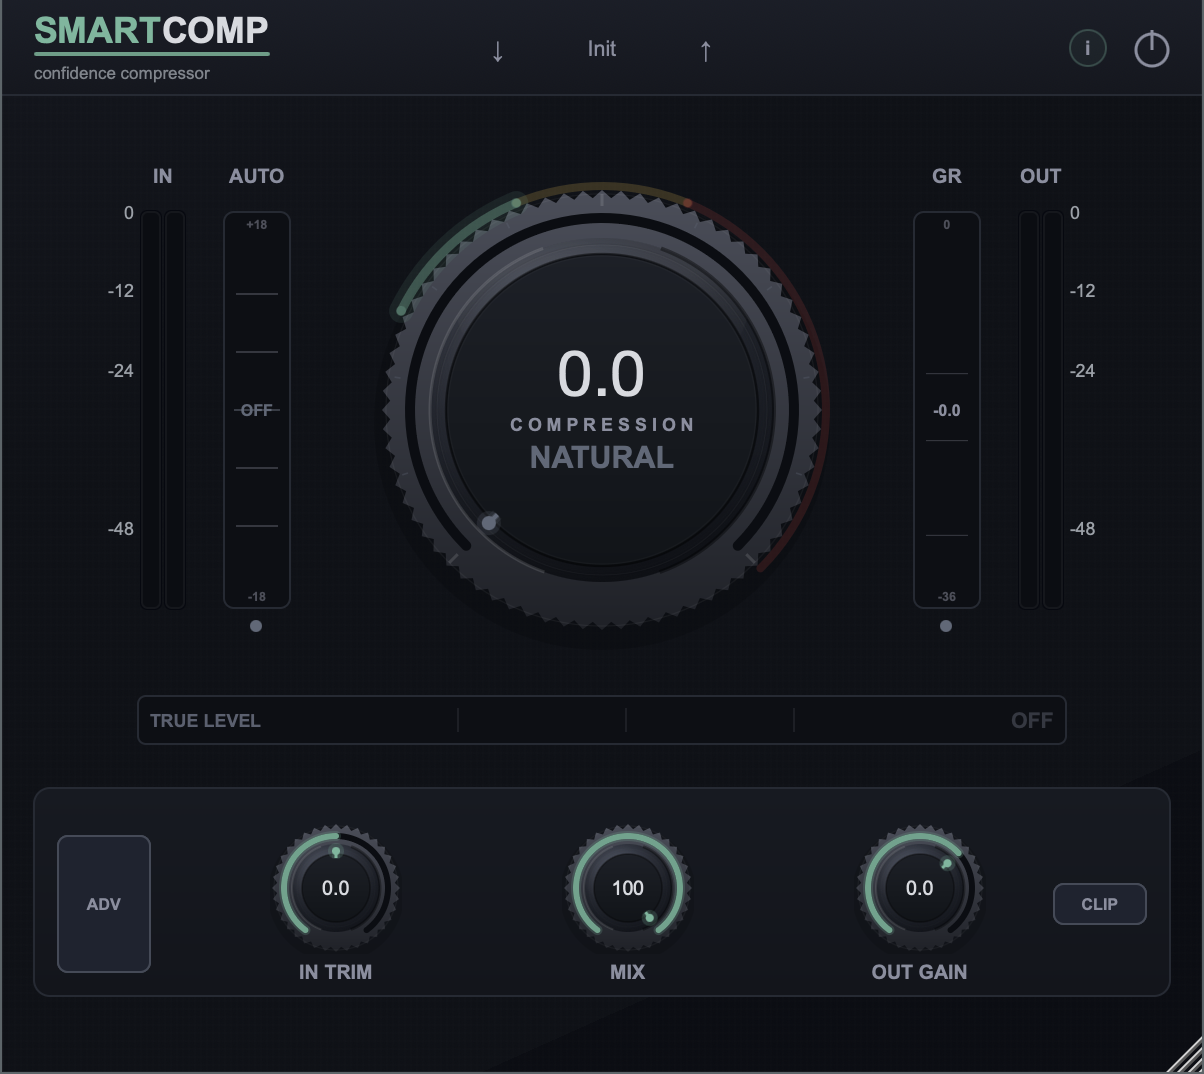
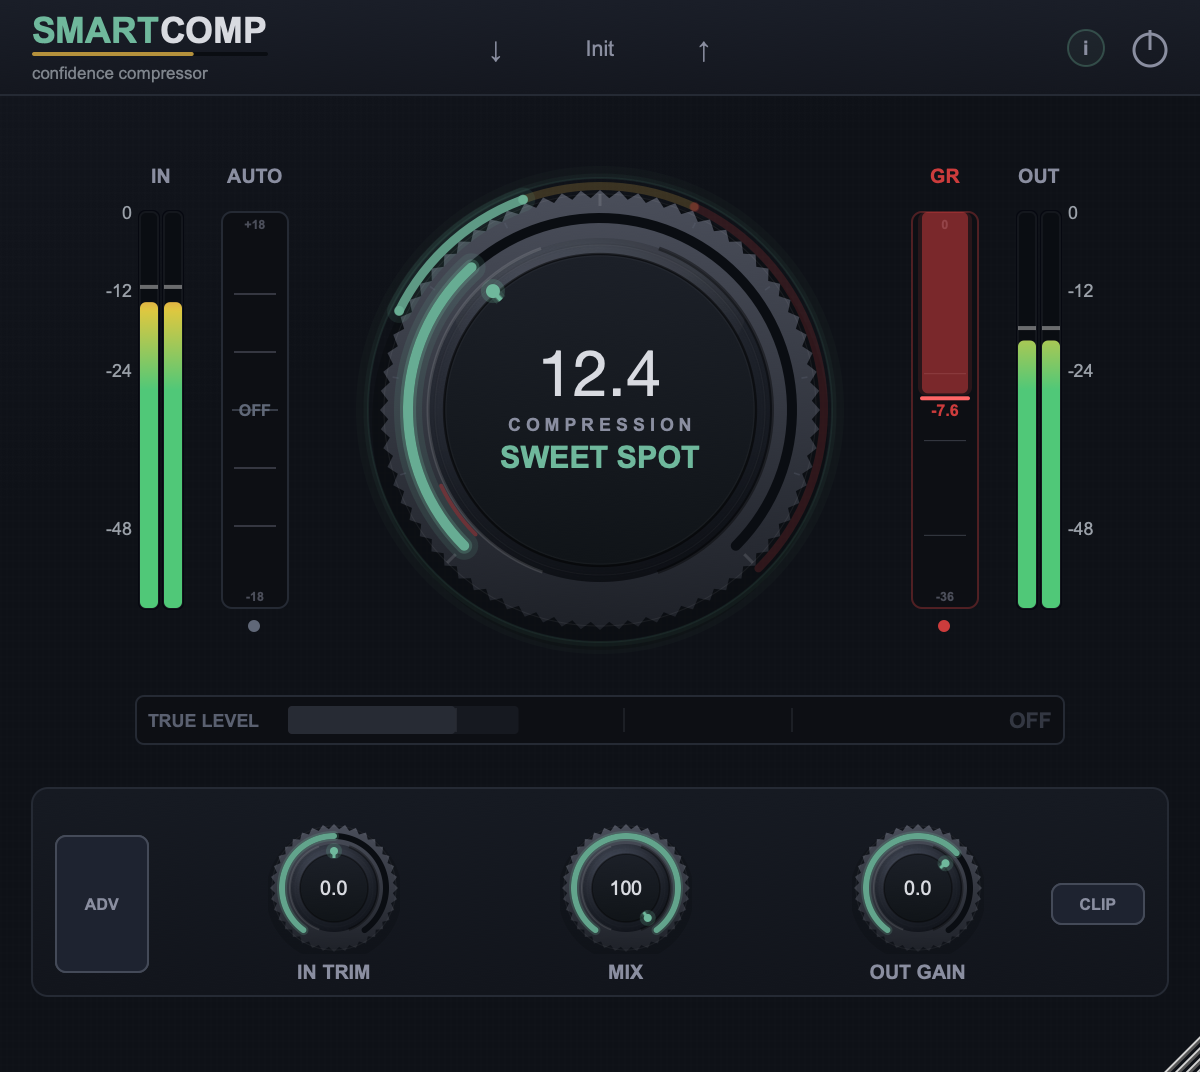
Add ui_shot: generate the README screenshot from the real UI
The previous screenshot showed the init state — everything at zero, empty
meters, no sign of the sweet-spot feature the README leads with. Getting a
screenshot with real activity needed real audio flowing through the actual
processor while the actual editor renders it; a physical mic capture isn't
controllable or repeatable, and mocking up the UI by hand would show a plugin
that doesn't quite exist.

tests/ui_shot.cpp instead runs SmartCompProcessor and SmartCompEditor through
a genuine JUCE event loop (JUCEApplication + Timer, not a stub), feeding a
deterministic vocal-like signal — a repeating word/pause cadence with an
emphasized syllable every third word — through processBlock. Once the
sweet-spot analysis has converged it snaps the knob into the middle of the
computed range and waits for the glow to fade in, then calls
createComponentSnapshot() on the real editor and writes a PNG. No screen
recording, no window manager, no AppleScript.

It links against the SmartComp shared-code CMake target rather than
recompiling PluginProcessor/PluginEditor, so it inherits the JucePlugin_*
compile definitions juce_add_plugin generates for that target instead of
needing to reproduce them by hand.

New screenshot shows Compression at 12.4, GR at -7.6 dB, and the knob's arc
lit up in the SWEET SPOT state — the thing the README's first paragraph
actually claims.

diff --git a/tests/ui_shot.cpp b/tests/ui_shot.cpp
@@ -1,0 +1,163 @@
+// Renders the real editor against synthetic audio and saves a PNG, so a
+// README screenshot can show the plugin actually working (meters moving, GR
+// arc lit, sweet-spot glow visible) without relying on a DAW, a physical mic,
+// or hand-drawn mockups. Runs the real SmartCompProcessor/SmartCompEditor
+// through a genuine JUCE message loop and timer, exactly like a host would,
+// just fed a deterministic signal instead of live audio.
+//
+// Build:  cmake --build <builddir> --target ui_shot
+// Run:    open <builddir>/ui_shot_artefacts/Release/ui_shot.app --args /tmp/out.png
+
+#include <juce_gui_basics/juce_gui_basics.h>
+#include <juce_graphics/juce_graphics.h>
+#include "../Source/PluginProcessor.h"
+#include "../Source/PluginEditor.h"
+
+namespace {
+
+constexpr double kSampleRate = 44100.0;
+constexpr int kBlockSize = 512;
+
+// Deterministic "vocal-like" generator: a repeating word/pause cadence with an
+// emphasized syllable every third word, so both the auto-threshold's slow
+// average and the fast meters have something realistic to track.
+struct VocalSignal
+{
+    int64_t sampleIndex = 0;
+
+    void fill(float* left, float* right, int n)
+    {
+        for (int i = 0; i < n; ++i)
+        {
+            const double t = (double) sampleIndex / kSampleRate;
+            const double wordPeriod = 0.55;
+            const double wordT = std::fmod(t, wordPeriod);
+
+            double env;
+            if (wordT < 0.30) {
+                const double u = wordT / 0.30;
+                env = std::max(0.5 - 0.5 * std::cos(u * juce::MathConstants<double>::twoPi), 0.15);
+            } else {
+                env = 0.10; // breath / room tone between words
+            }
+
+            const int wordIndex = (int) (t / wordPeriod);
+            const double amp = (wordIndex % 3 == 0) ? 0.34 : 0.11; // ~-9 dBFS vs ~-19 dBFS
+
+            const double f0 = 145.0; // pitch, roughly a male vocal fundamental
+            const double s = amp * env * (
+                  0.60 * std::sin(juce::MathConstants<double>::twoPi * f0 * t)
+                + 0.25 * std::sin(juce::MathConstants<double>::twoPi * f0 * 2.0 * t)
+                + 0.15 * std::sin(juce::MathConstants<double>::twoPi * f0 * 3.3 * t));
+
+            left[i] = right[i] = (float) s;
+            ++sampleIndex;
+        }
+    }
+};
+
+} // namespace
+
+class ShotApp : public juce::JUCEApplication, private juce::Timer
+{
+public:
+    const juce::String getApplicationName() override { return "ui_shot"; }
+    const juce::String getApplicationVersion() override { return "1.0"; }
+    bool moreThanOneInstanceAllowed() override { return true; }
+
+    void initialise(const juce::String& commandLine) override
+    {
+        auto args = juce::StringArray::fromTokens(commandLine, true);
+        if (! args.isEmpty())
+            outPath = args[0].unquoted();
+
+        processor = std::make_unique<SmartCompProcessor>();
+        processor->prepareToPlay(kSampleRate, kBlockSize);
+
+        // Compression around the middle of the range and Mix fully wet, so the
+        // sweet-spot arc and GR meter both have something to show. The exact
+        // knob position matters less than landing inside whatever range the
+        // signal analysis converges on — see timerCallback.
+        processor->apvts.getParameter("comp")->setValueNotifyingHost(18.0f / 36.0f);
+        processor->apvts.getParameter("mix")->setValueNotifyingHost(1.0f);
+
+        editor.reset(processor->createEditor());
+        editor->setVisible(true);
+
+        window = std::make_unique<juce::DocumentWindow>(
+            "ui_shot", juce::Colours::black, juce::DocumentWindow::allButtons);
+        window->setUsingNativeTitleBar(true);
+        window->setContentNonOwned(editor.get(), true);
+        window->setTopLeftPosition(80, 80);
+        window->setVisible(true);
+
+        startTimerHz(30);
+    }
+
+    void shutdown() override
+    {
+        stopTimer();
+        window = nullptr;
+        editor = nullptr;
+        processor = nullptr;
+    }
+
+    void systemRequestedQuit() override { quit(); }
+
+private:
+    void timerCallback() override
+    {
+        // Several audio blocks per UI tick, so the processor always has fresh
+        // atomics by the time the editor's own 60Hz timer reads them.
+        for (int b = 0; b < 4; ++b)
+        {
+            juce::AudioBuffer<float> buf(2, kBlockSize);
+            signal.fill(buf.getWritePointer(0), buf.getWritePointer(1), kBlockSize);
+            juce::MidiBuffer midi;
+            processor->processBlock(buf, midi);
+        }
+
+        // Snap the knob into the middle of the sweet spot once it has
+        // converged, so the glow (which needs the knob to sit inside the
+        // range, not just the range to exist) has time to fade in before the
+        // capture. Sweet-spot smoothing settles noticeably inside ~3s of
+        // audio-time; this checks after that and adjusts once.
+        if (! snapped && ticks == snapTick)
+        {
+            const float low = processor->sweetSpotLow.load();
+            const float high = processor->sweetSpotHigh.load();
+            const float mid = juce::jlimit(0.0f, 36.0f, (low + high) * 0.5f);
+            processor->apvts.getParameter("comp")->setValueNotifyingHost(mid / 36.0f);
+            snapped = true;
+        }
+
+        if (++ticks == captureTick)
+        {
+            auto bounds = editor->getLocalBounds();
+            auto image = editor->createComponentSnapshot(bounds, false, 2.0f);
+            juce::PNGImageFormat png;
+            juce::File outFile(outPath);
+            outFile.deleteFile();
+            if (auto os = std::unique_ptr<juce::FileOutputStream>(outFile.createOutputStream()))
+                png.writeImageToStream(image, *os);
+            quit();
+        }
+    }
+
+    std::unique_ptr<SmartCompProcessor> processor;
+    std::unique_ptr<juce::AudioProcessorEditor> editor;
+    std::unique_ptr<juce::DocumentWindow> window;
+    VocalSignal signal;
+    int ticks = 0;
+    bool snapped = false;
+    // 30 ticks/sec * 4 blocks * 512 samples / 44100 ~= 0.14s of audio-time per
+    // tick. snapTick lands after ~3.5s of audio-time (enough for the sweet-spot
+    // learn phase to settle), captureTick half a second after that so the
+    // glow (which fades in over ~12 frames) is fully visible, ideally during
+    // an emphasized ("loud") word so the GR arc and meters are non-zero too.
+    static constexpr int snapTick = 175;
+    static constexpr int captureTick = 220;
+    juce::String outPath { "/tmp/smartcomp_ui_shot.png" };
+};
+
+START_JUCE_APPLICATION(ShotApp)

diff --git a/README.md b/README.md
@@ -87,6 +87,16 @@ cmake --build ~/Library/Caches/SmartComp-build --target dsp_bench
 ~/Library/Caches/SmartComp-build/dsp_bench_artefacts/Release/dsp_bench
 ```
 
+The README screenshot is generated the same way rather than mocked up:
+`tests/ui_shot.cpp` runs the real processor and editor through a genuine JUCE
+event loop against a synthetic vocal-like signal, then saves what actually
+renders.
+
+```bash
+cmake --build ~/Library/Caches/SmartComp-build --target ui_shot
+open ~/Library/Caches/SmartComp-build/ui_shot_artefacts/Release/ui_shot.app --args /tmp/screenshot.png
+```
+
 ## License
 
 Not yet decided. The repository is public for now; no license has been
